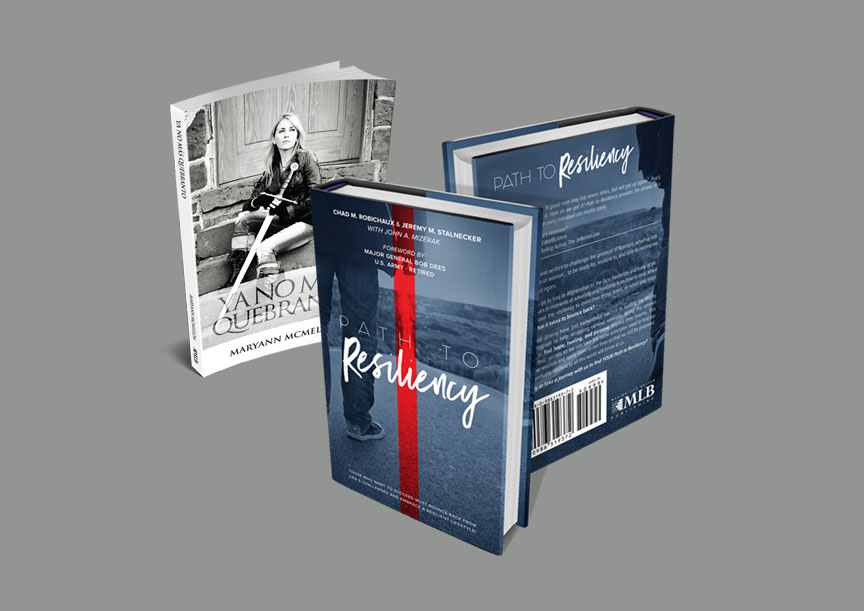
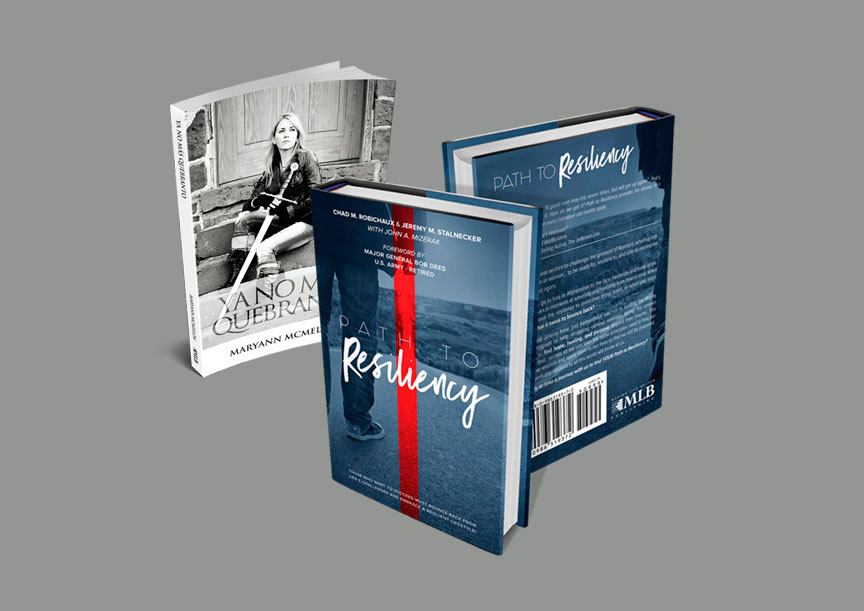
images optimizing update

diff --git a/css/site.css b/css/site.css
@@ -1446,7 +1446,7 @@ p {
 }
 
 .bgimg-3 {
-  background-image: url("../Images/OurStory/company.png");
+  background-image: url("../Images/OurStory/company.jpg");
   min-height: 400px;
   z-index: -1;
 }
@@ -1458,7 +1458,7 @@ p {
 }
 
 .bgimg-5 {
-  background-image: url("../Images/OurStory/art.png");
+  background-image: url("../Images/OurStory/art.jpg");
   min-height: 400px;
   z-index: -1;
 }
@@ -1470,7 +1470,7 @@ p {
 }
 
 .bgimg-7 {
-  background-image: url("../Images/OurStory/art-3.png");
+  background-image: url("../Images/OurStory/art-3.jpg");
   min-height: 400px;
   z-index: -1;
 }
